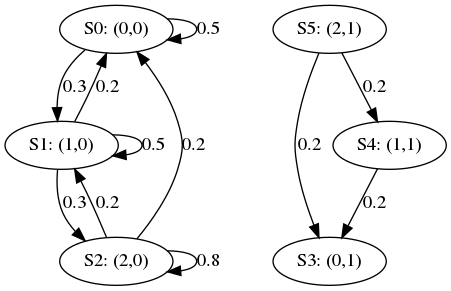
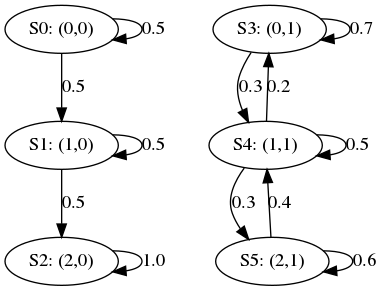
transition probability fixed

diff --git a/mdp.py b/mdp.py
@@ -19,6 +19,11 @@ class State:
     def __str__(self):
         return "(" + str(self._k) + "," + str(self._n) + ")"
 
+    def __sub__(self, other):
+        k = self.k - other.k
+        n = self.n - other.n
+        return State(k, n)
+
 
 class SliceMDP:
     def __init__(self, arrivals_histogram, departures_histogram, queue_size, max_server_num,
@@ -32,8 +37,7 @@ class SliceMDP:
         self._max_server_num = max_server_num
 
         # trans matrix stuff
-        self._current_server_num = 0
-        self._transition_matrix = self._calculate_transition_matrix()
+        self._transition_matrix = self._generate_transition_matrix()
 
         # reward stuff
         self._c_job = c_job
@@ -54,12 +58,112 @@ class SliceMDP:
     """
     def _generate_states(self):
         states = []  # state at pos 0 -> S0, etc..
-
         for i in range(self._max_server_num + 1):
             for j in range(self._queue_size + 1):
                 states.append(State(j, i))
-
         return states
+
+    def _calculate_alloc_dealloc_probability(self, state):
+        p_alloc = 1.
+        p_dealloc = 1.
+        if state.n == 0:
+            p_dealloc = 0.
+        elif state.n == self._max_server_num:
+            p_alloc = 0.
+        return p_alloc, p_dealloc
+
+    def _calculate_h_p(self, state):
+        # le probabilità di departure hanno senso solo per server_num > 0
+        # in caso di server_num > 0, H_p per il sistema = H_p convuluto H_p nel caso di due server
+        # perchè H_p_nserver = [P(s1:0)*P(s2:0), P(s1:0)*P(s2:1) + P(s1:1)*P(s2:0), P(s1:1)*P(s2:1)]
+        # NB: la convoluzione è associativa, quindi farla a due a due per n volte è ok
+        h_p = self._departures_histogram
+        for i in range(1, state.n):
+            h_p = np.convolve(h_p, self._departures_histogram)
+        return h_p
+
+    # old calculate_transition_prob https://0bin.net/paste/myC+f0f5d6CoKF79#4nJw-dt4IhQxddw6D4EjbiG0aWeUhzdYniWC3i0DWjm
+    def _calculate_transition_probability(self, from_state, to_state, action_id):
+        transition_probability = 0
+        diff = to_state - from_state
+
+        # prima valuto le transizioni "orizzontali"
+        if from_state.n == 0:
+            if diff.k == 0 and to_state.k == self._queue_size:
+                transition_probability = 1.
+            elif diff.k >= 0:
+                try:
+                    transition_probability = self._arrivals_histogram[diff.k]
+                except IndexError:
+                    pass
+        else:
+            if diff.k == 0 and to_state.k == 0:
+                tmp = 0
+                for i in range(1, len(self._departures_histogram)):
+                    try:
+                        tmp += self._arrivals_histogram[i] * self._departures_histogram[i]
+                    except IndexError:
+                        pass
+                transition_probability = self._arrivals_histogram[0] + tmp
+
+            elif diff.k >= 0:
+                if to_state.k < self._queue_size:
+                    tmp = 0
+                    tmp2 = 0
+                    for i in range(diff.k, self._queue_size):
+                        try:
+                            tmp += self._arrivals_histogram[i] * self._departures_histogram[i - diff.k]
+                        except IndexError:
+                            pass
+                    for i in range(len(self._arrivals_histogram) - self._queue_size):
+                        try:
+                            tmp2 += self._arrivals_histogram[self._queue_size + i] * self._departures_histogram[self._queue_size - to_state.k]
+                        except IndexError:
+                            pass
+                    transition_probability = tmp + tmp2
+                elif to_state.k == self._queue_size:
+                    for i in range(diff.k, len(self._arrivals_histogram)):
+                        try:
+                            transition_probability += self._arrivals_histogram[i] * self._departures_histogram[0]
+                        except IndexError:
+                            pass
+
+            elif diff.k < 0:
+                for i in range(-diff.k, len(self._departures_histogram)):
+                    try:
+                        transition_probability += self._arrivals_histogram[diff.k + i] * self._departures_histogram[i]
+                    except IndexError:
+                        pass
+                if self._queue_size <= len(self._departures_histogram) - 1 or from_state.k == self._queue_size and -diff.k <= len(self._departures_histogram) - 1:
+                    for i in range(len(self._departures_histogram) - 1, len(self._arrivals_histogram)):
+                        try:
+                            transition_probability += self._arrivals_histogram[i] * self._departures_histogram[len(self._departures_histogram) - 1]
+                        except IndexError:
+                            pass
+
+        p_alloc, p_dealloc = self._calculate_alloc_dealloc_probability(from_state)
+
+        # adesso valuto le eventuali transizioni "verticali"
+        if action_id == 0:  # do nothing
+            if to_state.n != from_state.n:
+                return 0.
+
+        elif action_id == 1:  # allocate 1 server
+            if to_state.n != from_state.n + 1:
+                return 0.
+            else:
+                transition_probability *= p_alloc
+
+        elif action_id == 2:  # deallocate 1 server
+            if to_state.n != from_state.n - 1:
+                return 0.
+            else:
+                transition_probability *= p_dealloc
+
+
+
+
+        return transition_probability
 
     """
     The transition matrix is of dim action_num * states_num * states_num
@@ -67,7 +171,7 @@ class SliceMDP:
     Q[1] -> transition matrix related action 0 (allocate 1)
     Q[2] -> transition matrix related action 0 (deallocate 1)
     """
-    def _calculate_transition_matrix(self):
+    def _generate_transition_matrix(self):
         self._states = self._generate_states()
 
         if self._verbose:
@@ -76,72 +180,11 @@ class SliceMDP:
 
         self._transition_matrix = np.zeros((3, len(self._states), len(self._states)))
 
-        # action 0 (do nothing)
-        # with this action, N is constant
-        if self._verbose:
-            print("Calculating transition matrix for action 0 (do nothing)")
-
-        for i in range(len(self._transition_matrix[0])):
-            for j in range(len(self._transition_matrix[0])):
-
-                # _______________
-
-                if self._states[i].n == self._states[j].n:
-
-                    if i <= j < self._queue_size:  # m' >= m; m' < max_jobs
-                        temp = 0
-                        for p_t in range(len(self._departures_histogram)):
-                            try:
-                                temp += self._arrivals_histogram[j - i + p_t] * self._departures_histogram[p_t]
-                            except IndexError:
-                                pass
-
-                        self._transition_matrix[0][i][j] = temp
-
-                        if self._verbose:
-                            print(f"1) Q({self._states[i]}->{self._states[j]}) = {self._transition_matrix[0][i][j]}")
-
-                    elif j >= i and j == self._queue_size:  # m' >= m; m' = max_jobs
-                        temp = 0
-                        temp2 = 0
-                        for p_t in range(len(self._departures_histogram)):
-                            try:
-                                temp += self._arrivals_histogram[j - i + p_t] * self._departures_histogram[p_t]
-                            except IndexError:
-                                pass
-
-                            for x in range(p_t + j - i + 1, self._queue_size + 1):  # ci vuole un +1 in queue_size(?)
-                                try:
-                                    temp2 += self._arrivals_histogram[x] * self._departures_histogram[p_t]
-                                except IndexError:
-                                    pass
-
-                        self._transition_matrix[0][i][j] = temp + temp2
-
-                        if self._verbose:
-                            print(f"2) Q({self._states[i]}->{self._states[j]}) = {self._transition_matrix[0][i][j]}")
-
-                    elif j < i:
-                        temp = 0
-                        for p_t in range(1, len(self._departures_histogram)):
-                            try:
-                                temp += self._arrivals_histogram[j - i + p_t] * self._departures_histogram[p_t]
-                            except IndexError:
-                                pass
-
-                        self._transition_matrix[0][i][j] = temp
-
-                        if self._verbose:
-                            print(f"3) Q({self._states[i]}->{self._states[j]}) = {self._transition_matrix[0][i][j]}")
-
-
-
-
-
-
-                # _______________
-
-
+        # lets iterate the trans matrix and fill with correct probabilities
+        for a in range(len(self._transition_matrix)):
+            for i in range(len(self._states)):
+                for j in range(len(self._states)):
+                    self._transition_matrix[a][i][j] = self._calculate_transition_probability(self._states[i], self._states[j], a)
 
         return self._transition_matrix
 
@@ -169,9 +212,13 @@ if __name__ == '__main__':
 
     # @findme : generare grafico partenze e arrivi
 
-    slice_mdp = SliceMDP(arrivals, departures, 2, 1)
+    slice_mdp = SliceMDP(arrivals, departures, 2, 2)
 
-    utils.export_markov_chain("toy", "azione0", slice_mdp._states, slice_mdp._transition_matrix[0])
+    #print(slice_mdp._transition_matrix[0])
+    utils.export_markov_chain("toy", "a0-do-nothing", slice_mdp._states, slice_mdp._transition_matrix[0], view=True)
+    utils.export_markov_chain("toy", "a1-alloc1", slice_mdp._states, slice_mdp._transition_matrix[1], view=True)
+    #utils.export_markov_chain("toy", "a2-dealloc1", slice_mdp._states, slice_mdp._transition_matrix[2], view=True)
+
 
 
 
